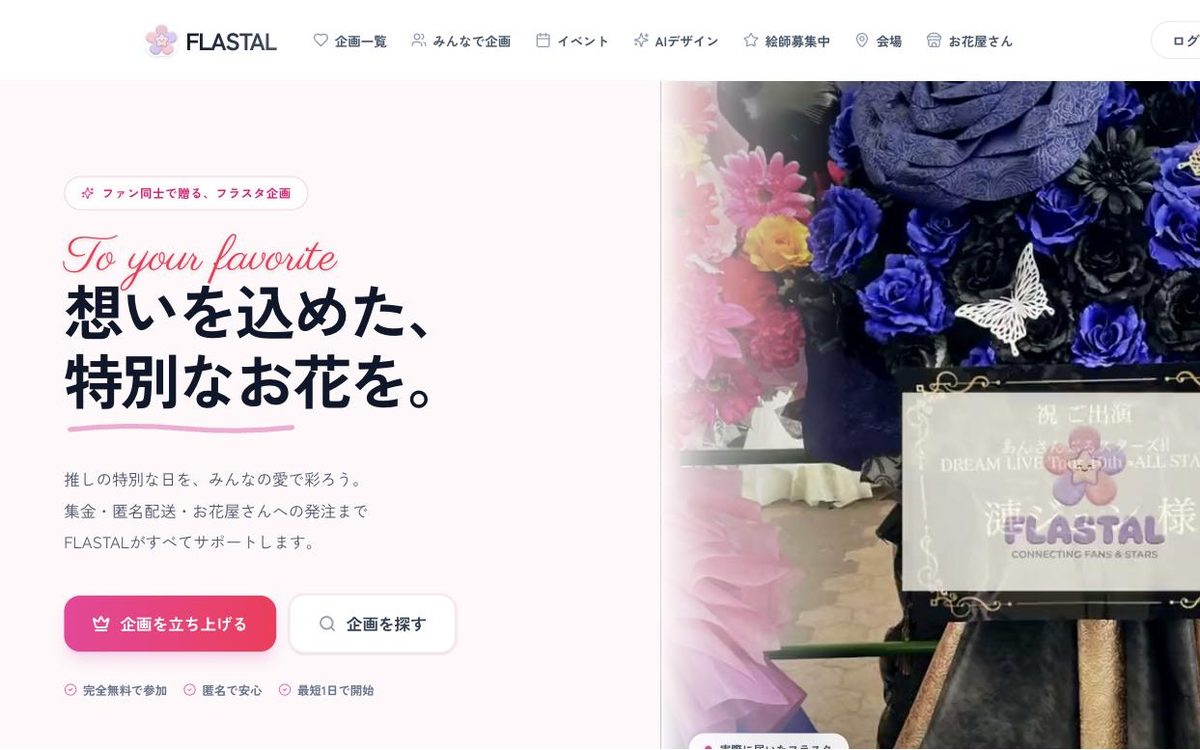
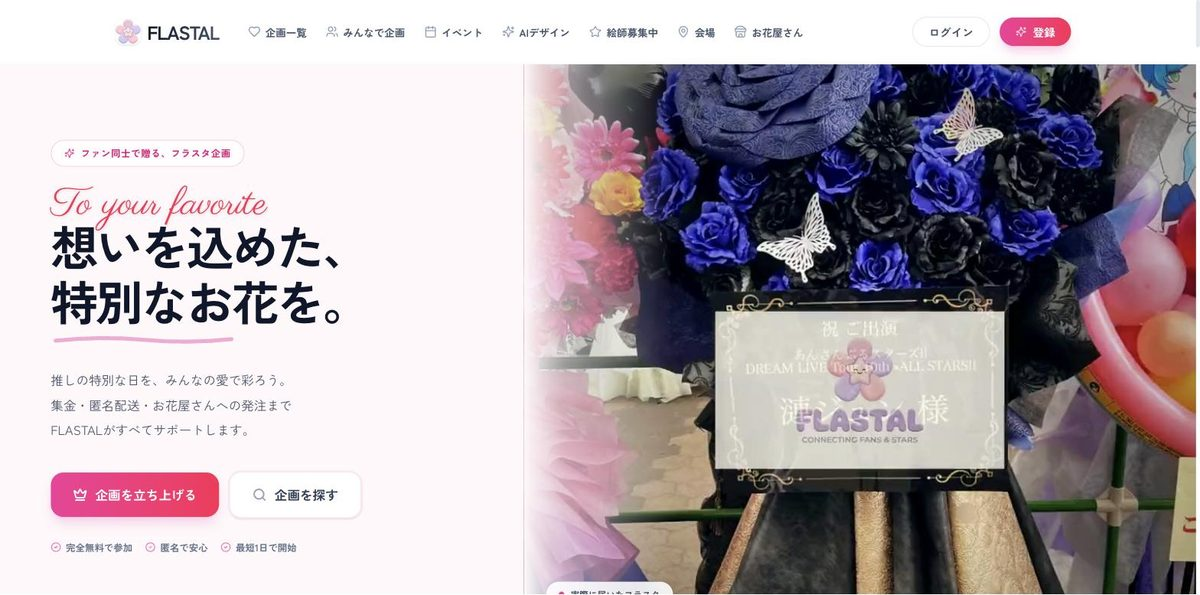
FLASTALのカードは、トップページを切らずに全幅で入れる
8:5に揃えるため右端（ログイン・登録と写真の右側）を落としていた。
撮ったままの比率(1200x595)で置き、画像の寸法はshotsの表に持たせる。
カードの高さはlv-product-artのmin-heightで決まるので、
タブを切り替えてもページの高さは動かない。

Claude-Session: https://claude.ai/code/session_01PrHR8STbGhWPXTXwUttd6D

diff --git a/laruvisona-web/components/immersive/CompanyExperience.tsx b/laruvisona-web/components/immersive/CompanyExperience.tsx
@@ -105,6 +105,8 @@ const products = [
 const shots = {
   hp: {
     src: "/lp/studio-edit.jpg",
+    w: 1200,
+    h: 750,
     alt: "LARU HPの制作画面",
     bar: "LARU HP ／ 制作画面",
     word: "つくる。",
@@ -112,6 +114,8 @@ const shots = {
   },
   bot: {
     src: "/company/products/larubot.jpg",
+    w: 1200,
+    h: 750,
     alt: "LARUbotのサービス画面",
     bar: "larubot.tokyo",
     word: "こたえる。",
@@ -119,6 +123,8 @@ const shots = {
   },
   seo: {
     src: "/company/products/laruseo.jpg",
+    w: 1200,
+    h: 750,
     alt: "LARUSEOの画面",
     bar: "larubot.tokyo ／ LARU SEO",
     word: "とどく。",
@@ -126,6 +132,8 @@ const shots = {
   },
   flastal: {
     src: "/company/products/flastal.jpg",
+    w: 1200,
+    h: 595,
     alt: "FLASTALのサービス画面",
     bar: "flastal.com",
     word: "あつまる。",
@@ -150,8 +158,8 @@ function ProductVisual({ id }: { id: keyof typeof shots }) {
         <Image
           src={shot.src}
           alt={shot.alt}
-          width={1200}
-          height={750}
+          width={shot.w}
+          height={shot.h}
           sizes="(max-width: 760px) 90vw, 55vw"
         />
       </div>

diff --git a/laruvisona-web/docs/change-2026-09-16-product-shots.md b/laruvisona-web/docs/change-2026-09-16-product-shots.md
@@ -20,10 +20,13 @@ LARUbot・LARUSEO・FLASTAL は手で描いた紹介イメージだった。
 | --- | --- | --- |
 | `public/company/products/larubot.jpg` | https://larubot.tokyo/ | 1376×868 → 1200×750 |
 | `public/company/products/laruseo.jpg` | https://larubot.tokyo/laru-seo | 1568×777 → 中央 1243×777 を切り出して 1200×750 |
-| `public/company/products/flastal.jpg` | https://www.flastal.com/ | 1568×777 → 左 1243×777 を切り出して 1200×750 |
+| `public/company/products/flastal.jpg` | https://www.flastal.com/ | 1568×777 → 切り出さず 1200×595 |
 
-- 既にある `/lp/studio-edit.jpg` が 1200×750 なので、4枚とも同じ 8:5 に揃えた。
-- JPEG 品質82・プログレッシブ。66〜129KB。
+- 既にある `/lp/studio-edit.jpg` が 1200×750 なので、LARUbot・LARUSEO はそれに合わせて 8:5 に揃えた。
+- FLASTAL だけは横幅を切らずに入れている。8:5 に合わせると右端（ログイン・登録と写真の右側）が落ちるため、
+  撮ったままの比率で置いた。カードの高さは `lv-product-art` の `min-height` で決まるので、
+  タブを切り替えてもページの高さは動かない。
+- JPEG 品質82・プログレッシブ。66〜129KB。画像の寸法は `shots` の表に持たせている。
 - 撮影は実ブラウザの表示そのままで、合成・加筆はしていない。
 - LARUbot は、チャットの窓を閉じた素の状態で撮っている
   （前の会話が残った窓を写さないため。会話の削除はしていない）。
